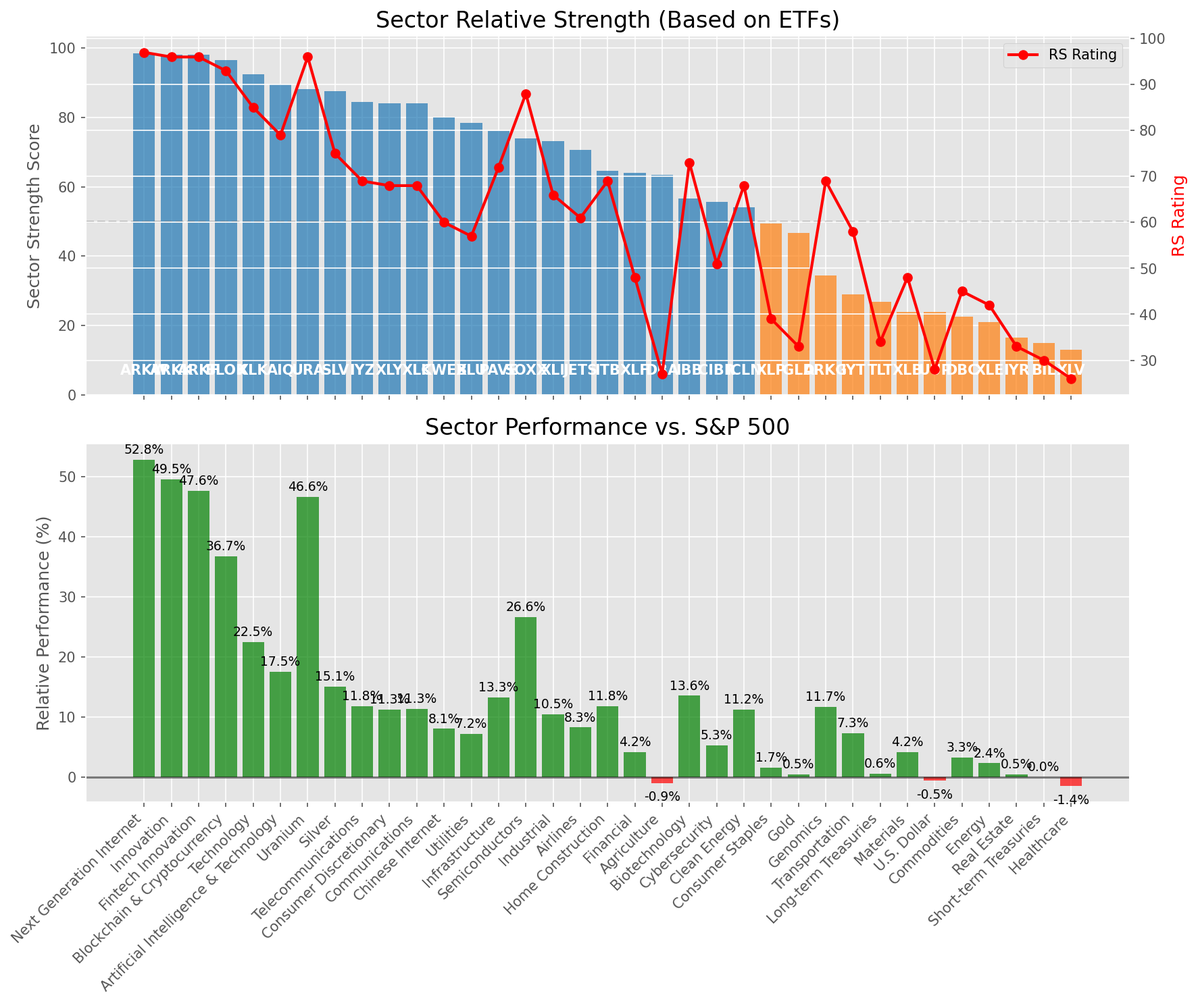
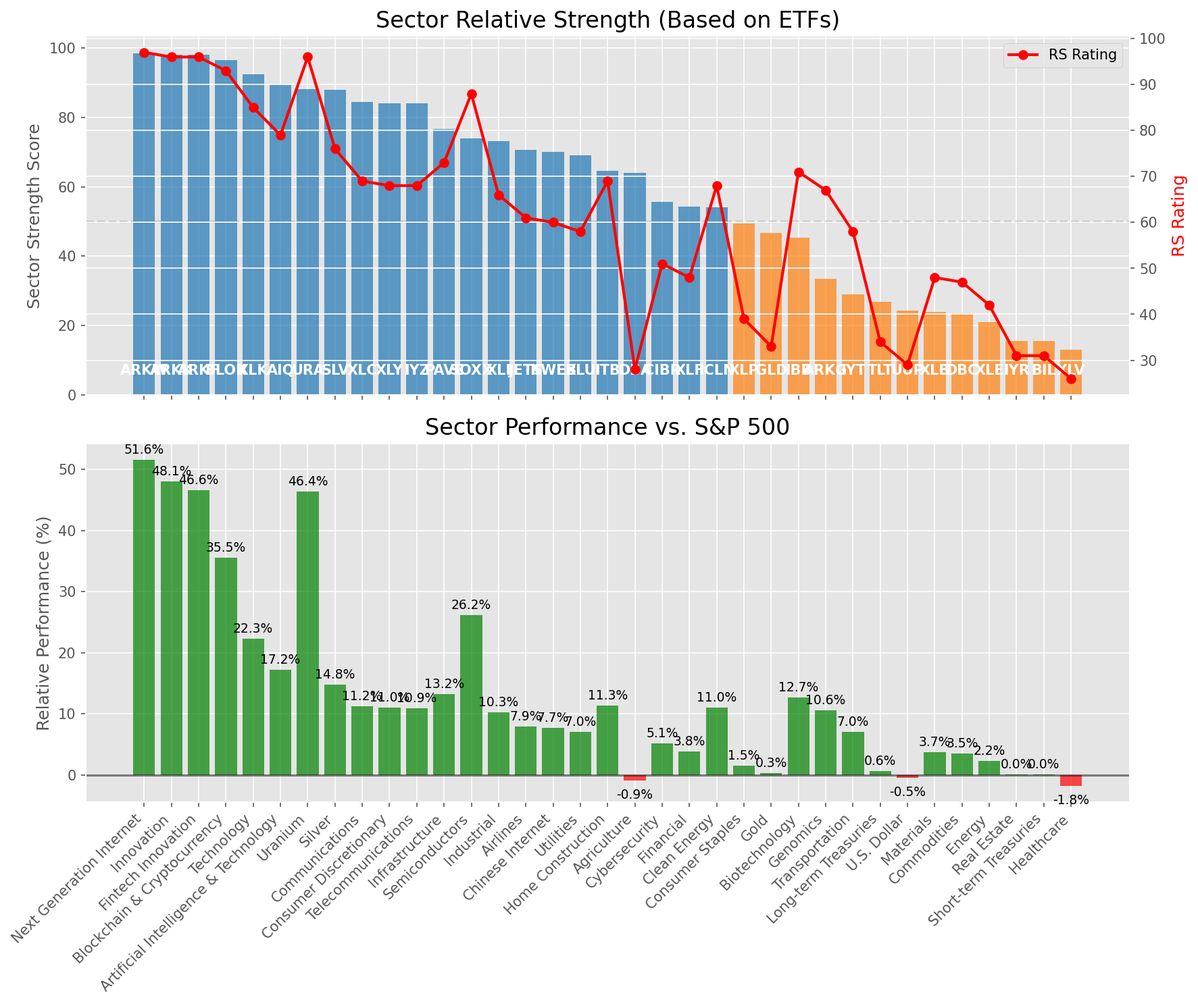
Add market report for 2025-08-11

diff --git a/oneil_relative_strength_report_2025-08-11.md b/oneil_relative_strength_report_2025-08-11.md
@@ -9,11 +9,11 @@
 | Metric | Value |
 |--------|-------|
 | **Market Valuation** | **Overvalued** |
-| **Current Ratio** | 10.34 |
+| **Current Ratio** | 10.32 |
 | **Historical Mean** | 9.68 |
 | **Standard Deviation** | 0.52 |
 | **Z-Score (StdDev from Mean)** | 1.24 |
-| **Total Market Cap** | $313.65 trillion |
+| **Total Market Cap** | $313.00 trillion |
 | **GDP** | $30.33 trillion |
 
 ## **Market Insights**
@@ -49,41 +49,41 @@ Based on William O'Neil's Relative Strength Methodology
 
 | ETF | Strength | RS Rating | Performance | Above Key MAs | Trend | Sector |
 |-----|----------|-----------|-------------|--------------|-------|--------|
-| [ARKW](https://www.tradingview.com/chart/?symbol=ARKW) | 98.5 | 97.0 | 52.79% | 10d ✓, 50d ✓, 200d ✓ | ↗ | Next Generation Internet |
-| [ARKK](https://www.tradingview.com/chart/?symbol=ARKK) | 98.0 | 96.0 | 49.52% | 10d ✓, 50d ✓, 200d ✓ | ↗ | Innovation |
-| [ARKF](https://www.tradingview.com/chart/?symbol=ARKF) | 98.0 | 96.0 | 47.60% | 10d ✓, 50d ✓, 200d ✓ | ↗ | Fintech Innovation |
-| [BLOK](https://www.tradingview.com/chart/?symbol=BLOK) | 96.5 | 93.0 | 36.69% | 10d ✓, 50d ✓, 200d ✓ | ↗ | Blockchain & Cryptocurrency |
-| [XLK](https://www.tradingview.com/chart/?symbol=XLK) | 92.5 | 85.0 | 22.53% | 10d ✓, 50d ✓, 200d ✓ | ↗ | Technology |
-| [AIQ](https://www.tradingview.com/chart/?symbol=AIQ) | 89.5 | 79.0 | 17.51% | 10d ✓, 50d ✓, 200d ✓ | ↗ | Artificial Intelligence & Technology |
-| [URA](https://www.tradingview.com/chart/?symbol=URA) | 88.1 | 96.0 | 46.63% | 10d ✗, 50d ✓, 200d ✓ | ↗ | Uranium |
-| [SLV](https://www.tradingview.com/chart/?symbol=SLV) | 87.5 | 75.0 | 15.10% | 10d ✓, 50d ✓, 200d ✓ | ↗ | Silver |
-| [IYZ](https://www.tradingview.com/chart/?symbol=IYZ) | 84.5 | 69.0 | 11.84% | 10d ✓, 50d ✓, 200d ✓ | ↗ | Telecommunications |
-| [XLY](https://www.tradingview.com/chart/?symbol=XLY) | 84.0 | 68.0 | 11.29% | 10d ✓, 50d ✓, 200d ✓ | ↗ | Consumer Discretionary |
-| [XLC](https://www.tradingview.com/chart/?symbol=XLC) | 84.0 | 68.0 | 11.34% | 10d ✓, 50d ✓, 200d ✓ | ↗ | Communications |
-| [KWEB](https://www.tradingview.com/chart/?symbol=KWEB) | 80.0 | 60.0 | 8.08% | 10d ✓, 50d ✓, 200d ✓ | ↗ | Chinese Internet |
-| [XLU](https://www.tradingview.com/chart/?symbol=XLU) | 78.5 | 57.0 | 7.20% | 10d ✓, 50d ✓, 200d ✓ | ↗ | Utilities |
-| [PAVE](https://www.tradingview.com/chart/?symbol=PAVE) | 76.1 | 72.0 | 13.27% | 10d ✗, 50d ✓, 200d ✓ | ↗ | Infrastructure |
-| [SOXX](https://www.tradingview.com/chart/?symbol=SOXX) | 74.0 | 88.0 | 26.63% | 10d ✓, 50d ✓, 200d ✓ | ↘ | Semiconductors |
-| [XLI](https://www.tradingview.com/chart/?symbol=XLI) | 73.1 | 66.0 | 10.51% | 10d ✗, 50d ✓, 200d ✓ | ↗ | Industrial |
-| [JETS](https://www.tradingview.com/chart/?symbol=JETS) | 70.6 | 61.0 | 8.29% | 10d ✗, 50d ✓, 200d ✓ | ↗ | Airlines |
-| [ITB](https://www.tradingview.com/chart/?symbol=ITB) | 64.5 | 69.0 | 11.84% | 10d ✓, 50d ✓, 200d ✓ | ↘ | Home Construction |
-| [XLF](https://www.tradingview.com/chart/?symbol=XLF) | 64.1 | 48.0 | 4.21% | 10d ✗, 50d ✓, 200d ✓ | ↗ | Financial |
-| [DBA](https://www.tradingview.com/chart/?symbol=DBA) | 63.5 | 27.0 | -0.93% | 10d ✓, 50d ✓, 200d ✓ | ↗ | Agriculture |
-| [IBB](https://www.tradingview.com/chart/?symbol=IBB) | 56.6 | 73.0 | 13.57% | 10d ✗, 50d ✓, 200d ✓ | ↘ | Biotechnology |
-| [CIBR](https://www.tradingview.com/chart/?symbol=CIBR) | 55.7 | 51.0 | 5.32% | 10d ✗, 50d ✗, 200d ✓ | ↗ | Cybersecurity |
-| [ICLN](https://www.tradingview.com/chart/?symbol=ICLN) | 54.1 | 68.0 | 11.25% | 10d ✗, 50d ✓, 200d ✓ | ↘ | Clean Energy |
-| [XLP](https://www.tradingview.com/chart/?symbol=XLP) | 49.5 | 39.0 | 1.66% | 10d ✓, 50d ✓, 200d ✓ | ↘ | Consumer Staples |
-| [GLD](https://www.tradingview.com/chart/?symbol=GLD) | 46.7 | 33.0 | 0.46% | 10d ✗, 50d ✗, 200d ✓ | ↗ | Gold |
-| [ARKG](https://www.tradingview.com/chart/?symbol=ARKG) | 34.5 | 69.0 | 11.74% | 10d ✗, 50d ✗, 200d ✗ | ↘ | Genomics |
-| [IYT](https://www.tradingview.com/chart/?symbol=IYT) | 29.0 | 58.0 | 7.34% | 10d ✗, 50d ✗, 200d ✗ | ↘ | Transportation |
-| [TLT](https://www.tradingview.com/chart/?symbol=TLT) | 26.9 | 34.0 | 0.59% | 10d ✗, 50d ✓, 200d ✗ | ↘ | Long-term Treasuries |
-| [XLB](https://www.tradingview.com/chart/?symbol=XLB) | 24.0 | 48.0 | 4.20% | 10d ✗, 50d ✗, 200d ✗ | ↘ | Materials |
-| [UUP](https://www.tradingview.com/chart/?symbol=UUP) | 23.9 | 28.0 | -0.51% | 10d ✗, 50d ✓, 200d ✗ | ↘ | U.S. Dollar |
-| [DBC](https://www.tradingview.com/chart/?symbol=DBC) | 22.5 | 45.0 | 3.34% | 10d ✗, 50d ✗, 200d ✗ | ↘ | Commodities |
-| [XLE](https://www.tradingview.com/chart/?symbol=XLE) | 21.0 | 42.0 | 2.35% | 10d ✗, 50d ✗, 200d ✗ | ↘ | Energy |
-| [IYR](https://www.tradingview.com/chart/?symbol=IYR) | 16.5 | 33.0 | 0.48% | 10d ✗, 50d ✗, 200d ✗ | ↘ | Real Estate |
-| [BIL](https://www.tradingview.com/chart/?symbol=BIL) | 15.0 | 30.0 | 0.03% | 10d ✗, 50d ✗, 200d ✗ | ↘ | Short-term Treasuries |
-| [XLV](https://www.tradingview.com/chart/?symbol=XLV) | 13.0 | 26.0 | -1.42% | 10d ✗, 50d ✗, 200d ✗ | ↘ | Healthcare |
+| [ARKW](https://www.tradingview.com/chart/?symbol=ARKW) | 98.5 | 97.0 | 51.59% | 10d ✓, 50d ✓, 200d ✓ | ↗ | Next Generation Internet |
+| [ARKK](https://www.tradingview.com/chart/?symbol=ARKK) | 98.0 | 96.0 | 48.06% | 10d ✓, 50d ✓, 200d ✓ | ↗ | Innovation |
+| [ARKF](https://www.tradingview.com/chart/?symbol=ARKF) | 98.0 | 96.0 | 46.58% | 10d ✓, 50d ✓, 200d ✓ | ↗ | Fintech Innovation |
+| [BLOK](https://www.tradingview.com/chart/?symbol=BLOK) | 96.5 | 93.0 | 35.54% | 10d ✓, 50d ✓, 200d ✓ | ↗ | Blockchain & Cryptocurrency |
+| [XLK](https://www.tradingview.com/chart/?symbol=XLK) | 92.5 | 85.0 | 22.27% | 10d ✓, 50d ✓, 200d ✓ | ↗ | Technology |
+| [AIQ](https://www.tradingview.com/chart/?symbol=AIQ) | 89.5 | 79.0 | 17.21% | 10d ✓, 50d ✓, 200d ✓ | ↗ | Artificial Intelligence & Technology |
+| [URA](https://www.tradingview.com/chart/?symbol=URA) | 88.1 | 96.0 | 46.43% | 10d ✗, 50d ✓, 200d ✓ | ↗ | Uranium |
+| [SLV](https://www.tradingview.com/chart/?symbol=SLV) | 88.0 | 76.0 | 14.82% | 10d ✓, 50d ✓, 200d ✓ | ↗ | Silver |
+| [XLC](https://www.tradingview.com/chart/?symbol=XLC) | 84.5 | 69.0 | 11.18% | 10d ✓, 50d ✓, 200d ✓ | ↗ | Communications |
+| [XLY](https://www.tradingview.com/chart/?symbol=XLY) | 84.0 | 68.0 | 10.96% | 10d ✓, 50d ✓, 200d ✓ | ↗ | Consumer Discretionary |
+| [IYZ](https://www.tradingview.com/chart/?symbol=IYZ) | 84.0 | 68.0 | 10.90% | 10d ✓, 50d ✓, 200d ✓ | ↗ | Telecommunications |
+| [PAVE](https://www.tradingview.com/chart/?symbol=PAVE) | 76.6 | 73.0 | 13.19% | 10d ✗, 50d ✓, 200d ✓ | ↗ | Infrastructure |
+| [SOXX](https://www.tradingview.com/chart/?symbol=SOXX) | 74.0 | 88.0 | 26.16% | 10d ✓, 50d ✓, 200d ✓ | ↘ | Semiconductors |
+| [XLI](https://www.tradingview.com/chart/?symbol=XLI) | 73.1 | 66.0 | 10.27% | 10d ✗, 50d ✓, 200d ✓ | ↗ | Industrial |
+| [JETS](https://www.tradingview.com/chart/?symbol=JETS) | 70.6 | 61.0 | 7.94% | 10d ✗, 50d ✓, 200d ✓ | ↗ | Airlines |
+| [KWEB](https://www.tradingview.com/chart/?symbol=KWEB) | 70.1 | 60.0 | 7.68% | 10d ✗, 50d ✓, 200d ✓ | ↗ | Chinese Internet |
+| [XLU](https://www.tradingview.com/chart/?symbol=XLU) | 69.1 | 58.0 | 7.02% | 10d ✗, 50d ✓, 200d ✓ | ↗ | Utilities |
+| [ITB](https://www.tradingview.com/chart/?symbol=ITB) | 64.5 | 69.0 | 11.32% | 10d ✓, 50d ✓, 200d ✓ | ↘ | Home Construction |
+| [DBA](https://www.tradingview.com/chart/?symbol=DBA) | 64.0 | 28.0 | -0.93% | 10d ✓, 50d ✓, 200d ✓ | ↗ | Agriculture |
+| [CIBR](https://www.tradingview.com/chart/?symbol=CIBR) | 55.7 | 51.0 | 5.11% | 10d ✗, 50d ✗, 200d ✓ | ↗ | Cybersecurity |
+| [XLF](https://www.tradingview.com/chart/?symbol=XLF) | 54.2 | 48.0 | 3.84% | 10d ✗, 50d ✗, 200d ✓ | ↗ | Financial |
+| [ICLN](https://www.tradingview.com/chart/?symbol=ICLN) | 54.1 | 68.0 | 10.96% | 10d ✗, 50d ✓, 200d ✓ | ↘ | Clean Energy |
+| [XLP](https://www.tradingview.com/chart/?symbol=XLP) | 49.5 | 39.0 | 1.46% | 10d ✓, 50d ✓, 200d ✓ | ↘ | Consumer Staples |
+| [GLD](https://www.tradingview.com/chart/?symbol=GLD) | 46.7 | 33.0 | 0.33% | 10d ✗, 50d ✗, 200d ✓ | ↗ | Gold |
+| [IBB](https://www.tradingview.com/chart/?symbol=IBB) | 45.4 | 71.0 | 12.69% | 10d ✗, 50d ✓, 200d ✗ | ↘ | Biotechnology |
+| [ARKG](https://www.tradingview.com/chart/?symbol=ARKG) | 33.5 | 67.0 | 10.60% | 10d ✗, 50d ✗, 200d ✗ | ↘ | Genomics |
+| [IYT](https://www.tradingview.com/chart/?symbol=IYT) | 29.0 | 58.0 | 7.00% | 10d ✗, 50d ✗, 200d ✗ | ↘ | Transportation |
+| [TLT](https://www.tradingview.com/chart/?symbol=TLT) | 26.9 | 34.0 | 0.58% | 10d ✗, 50d ✓, 200d ✗ | ↘ | Long-term Treasuries |
+| [UUP](https://www.tradingview.com/chart/?symbol=UUP) | 24.4 | 29.0 | -0.49% | 10d ✗, 50d ✓, 200d ✗ | ↘ | U.S. Dollar |
+| [XLB](https://www.tradingview.com/chart/?symbol=XLB) | 24.0 | 48.0 | 3.69% | 10d ✗, 50d ✗, 200d ✗ | ↘ | Materials |
+| [DBC](https://www.tradingview.com/chart/?symbol=DBC) | 23.5 | 47.0 | 3.50% | 10d ✗, 50d ✗, 200d ✗ | ↘ | Commodities |
+| [XLE](https://www.tradingview.com/chart/?symbol=XLE) | 21.0 | 42.0 | 2.24% | 10d ✗, 50d ✗, 200d ✗ | ↘ | Energy |
+| [IYR](https://www.tradingview.com/chart/?symbol=IYR) | 15.5 | 31.0 | 0.02% | 10d ✗, 50d ✗, 200d ✗ | ↘ | Real Estate |
+| [BIL](https://www.tradingview.com/chart/?symbol=BIL) | 15.5 | 31.0 | 0.03% | 10d ✗, 50d ✗, 200d ✗ | ↘ | Short-term Treasuries |
+| [XLV](https://www.tradingview.com/chart/?symbol=XLV) | 13.0 | 26.0 | -1.82% | 10d ✗, 50d ✗, 200d ✗ | ↘ | Healthcare |
 
 ### **Sector ETF Performance Interpretation**
 
@@ -100,150 +100,159 @@ This table shows the relative strength metrics for different market sectors base
 
 The current market leadership is coming from the following sectors: **Next Generation Internet, Innovation, Fintech Innovation**.
 
-The **Next Generation Internet** sector (represented by **ARKW**) is showing particularly strong relative strength with an RS rating of 97.0 and performance of 52.79% vs. the S&P 500. This sector is trading above its 10-day, 50-day, 200-day moving average(s). Investors should consider focusing on high RS stocks within these leading sectors for potential outperformance.
+The **Next Generation Internet** sector (represented by **ARKW**) is showing particularly strong relative strength with an RS rating of 97.0 and performance of 51.59% vs. the S&P 500. This sector is trading above its 10-day, 50-day, 200-day moving average(s). Investors should consider focusing on high RS stocks within these leading sectors for potential outperformance.
 
 ---
 
 ## **Buy Recommendations**
 
-The following 57 stocks show exceptional relative strength:
+The following 58 stocks show exceptional relative strength:
 
 | RS Rating | Buy Score | Current Price | Chart | Name | Ticker |
 |-----------|-----------|---------------|-------|------|--------|
-| 100 | 100 | $65.30 | [Chart](https://www.tradingview.com/chart/?symbol=KTOS) | Kratos Defense & Security Solutions, Inc. | KTOS |
-| 100 | 100 | $116.94 | [Chart](https://www.tradingview.com/chart/?symbol=HOOD) | Robinhood Markets, Inc. Class A Common Stock | HOOD |
-| 100 | 100 | $74.00 | [Chart](https://www.tradingview.com/chart/?symbol=MP) | MP Materials Corp. | MP |
-| 100 | 100 | $206.82 | [Chart](https://www.tradingview.com/chart/?symbol=CLS) | Celestica, Inc. | CLS |
-| 100 | 100 | $120.30 | [Chart](https://www.tradingview.com/chart/?symbol=CRDO) | Credo Technology Group Holding Ltd Ordinary Shares | CRDO |
-| 99 | 100 | $131.64 | [Chart](https://www.tradingview.com/chart/?symbol=RBLX) | Roblox Corporation | RBLX |
-| 98 | 100 | $105.38 | [Chart](https://www.tradingview.com/chart/?symbol=VRNA) | Verona Pharma plc | VRNA |
-| 98 | 100 | $93.53 | [Chart](https://www.tradingview.com/chart/?symbol=RYTM) | Rhythm Pharmaceuticals, Inc. Common Stock | RYTM |
-| 97 | 100 | $158.77 | [Chart](https://www.tradingview.com/chart/?symbol=FUTU) | Futu Holdings Limited American Depositary Shares | FUTU |
-| 97 | 100 | $180.75 | [Chart](https://www.tradingview.com/chart/?symbol=COOP) | Mr. Cooper Group Inc. Common Stock | COOP |
-| 97 | 100 | $185.31 | [Chart](https://www.tradingview.com/chart/?symbol=PLTR) | Palantir Technologies Inc. Class A Common Stock | PLTR |
-| 97 | 100 | $162.98 | [Chart](https://www.tradingview.com/chart/?symbol=ARKW) | ARK Next Generation Internet ETF | ARKW |
-| 96 | 100 | $119.63 | [Chart](https://www.tradingview.com/chart/?symbol=SANM) | Sanmina  Corp | SANM |
-| 96 | 100 | $55.24 | [Chart](https://www.tradingview.com/chart/?symbol=ARKF) | ARK Fintech Innovation ETF | ARKF |
-| 95 | 100 | $465.77 | [Chart](https://www.tradingview.com/chart/?symbol=APP) | Applovin Corporation Class A Common Stock | APP |
-| 95 | 100 | $259.43 | [Chart](https://www.tradingview.com/chart/?symbol=DASH) | DoorDash, Inc. Class A Common Stock | DASH |
-| 95 | 100 | $66.35 | [Chart](https://www.tradingview.com/chart/?symbol=IBKR) | Interactive Brokers Group, Inc. Class A Common Stock | IBKR |
-| 95 | 100 | $47.93 | [Chart](https://www.tradingview.com/chart/?symbol=BBIO) | BridgeBio Pharma, Inc. Common Stock | BBIO |
-| 94 | 100 | $58.11 | [Chart](https://www.tradingview.com/chart/?symbol=BTI) | British American Tobacco p.l.c. American Depositary Shares, American Depositary Shares, each representing one Ordinary Share | BTI |
-| 94 | 100 | $50.19 | [Chart](https://www.tradingview.com/chart/?symbol=REVG) | REV Group, Inc. | REVG |
-| 93 | 100 | $110.51 | [Chart](https://www.tradingview.com/chart/?symbol=APH) | Amphenol Corporation | APH |
-| 93 | 100 | $94.61 | [Chart](https://www.tradingview.com/chart/?symbol=EBAY) | eBay Inc | EBAY |
-| 93 | 100 | $23.08 | [Chart](https://www.tradingview.com/chart/?symbol=MAG) | MAG Silver Corp. | MAG |
-| 93 | 100 | $20.69 | [Chart](https://www.tradingview.com/chart/?symbol=LQDA) | Liquidia Corporation Common Stock | LQDA |
-| 92 | 100 | $57.34 | [Chart](https://www.tradingview.com/chart/?symbol=CALX) | CALIX, INC. | CALX |
-| 91 | 100 | $36.15 | [Chart](https://www.tradingview.com/chart/?symbol=DB) | Deutsche Bank Aktiengesellschaft | DB |
-| 91 | 100 | $97.25 | [Chart](https://www.tradingview.com/chart/?symbol=TPB) | Turning Point Brands, Inc. | TPB |
-| 90 | 100 | $195.23 | [Chart](https://www.tradingview.com/chart/?symbol=ASND) | Ascendis Pharma A/S American Depositary Shares | ASND |
-| 90 | 100 | $43.67 | [Chart](https://www.tradingview.com/chart/?symbol=LTM) | LATAM Airlines Group S.A. American Depositary Shares (each representing two thousand (2,000) shares of Common Stock) | LTM |
+| 100 | 100 | $206.65 | [Chart](https://www.tradingview.com/chart/?symbol=CLS) | Celestica, Inc. | CLS |
+| 100 | 100 | $120.42 | [Chart](https://www.tradingview.com/chart/?symbol=CRDO) | Credo Technology Group Holding Ltd Ordinary Shares | CRDO |
+| 100 | 100 | $74.11 | [Chart](https://www.tradingview.com/chart/?symbol=MP) | MP Materials Corp. | MP |
+| 100 | 100 | $116.84 | [Chart](https://www.tradingview.com/chart/?symbol=HOOD) | Robinhood Markets, Inc. Class A Common Stock | HOOD |
+| 100 | 100 | $65.57 | [Chart](https://www.tradingview.com/chart/?symbol=KTOS) | Kratos Defense & Security Solutions, Inc. | KTOS |
+| 99 | 100 | $105.33 | [Chart](https://www.tradingview.com/chart/?symbol=VRNA) | Verona Pharma plc | VRNA |
+| 99 | 100 | $131.90 | [Chart](https://www.tradingview.com/chart/?symbol=RBLX) | Roblox Corporation | RBLX |
+| 98 | 100 | $92.70 | [Chart](https://www.tradingview.com/chart/?symbol=RYTM) | Rhythm Pharmaceuticals, Inc. Common Stock | RYTM |
+| 97 | 100 | $185.02 | [Chart](https://www.tradingview.com/chart/?symbol=PLTR) | Palantir Technologies Inc. Class A Common Stock | PLTR |
+| 97 | 100 | $119.94 | [Chart](https://www.tradingview.com/chart/?symbol=SANM) | Sanmina  Corp | SANM |
+| 97 | 100 | $158.93 | [Chart](https://www.tradingview.com/chart/?symbol=FUTU) | Futu Holdings Limited American Depositary Shares | FUTU |
+| 97 | 100 | $180.12 | [Chart](https://www.tradingview.com/chart/?symbol=COOP) | Mr. Cooper Group Inc. Common Stock | COOP |
+| 97 | 100 | $161.70 | [Chart](https://www.tradingview.com/chart/?symbol=ARKW) | ARK Next Generation Internet ETF | ARKW |
+| 96 | 100 | $54.87 | [Chart](https://www.tradingview.com/chart/?symbol=ARKF) | ARK Fintech Innovation ETF | ARKF |
+| 95 | 100 | $470.24 | [Chart](https://www.tradingview.com/chart/?symbol=APP) | Applovin Corporation Class A Common Stock | APP |
+| 95 | 100 | $58.27 | [Chart](https://www.tradingview.com/chart/?symbol=BTI) | British American Tobacco p.l.c. American Depositary Shares, American Depositary Shares, each representing one Ordinary Share | BTI |
+| 95 | 100 | $259.27 | [Chart](https://www.tradingview.com/chart/?symbol=DASH) | DoorDash, Inc. Class A Common Stock | DASH |
+| 95 | 100 | $66.13 | [Chart](https://www.tradingview.com/chart/?symbol=IBKR) | Interactive Brokers Group, Inc. Class A Common Stock | IBKR |
+| 94 | 100 | $50.17 | [Chart](https://www.tradingview.com/chart/?symbol=REVG) | REV Group, Inc. | REVG |
+| 94 | 100 | $47.34 | [Chart](https://www.tradingview.com/chart/?symbol=BBIO) | BridgeBio Pharma, Inc. Common Stock | BBIO |
+| 93 | 100 | $110.80 | [Chart](https://www.tradingview.com/chart/?symbol=APH) | Amphenol Corporation | APH |
+| 93 | 100 | $22.98 | [Chart](https://www.tradingview.com/chart/?symbol=MAG) | MAG Silver Corp. | MAG |
+| 93 | 100 | $94.66 | [Chart](https://www.tradingview.com/chart/?symbol=EBAY) | eBay Inc | EBAY |
+| 92 | 100 | $20.39 | [Chart](https://www.tradingview.com/chart/?symbol=LQDA) | Liquidia Corporation Common Stock | LQDA |
+| 91 | 100 | $56.88 | [Chart](https://www.tradingview.com/chart/?symbol=CALX) | CALIX, INC. | CALX |
+| 91 | 100 | $36.14 | [Chart](https://www.tradingview.com/chart/?symbol=DB) | Deutsche Bank Aktiengesellschaft | DB |
+| 90 | 100 | $53.77 | [Chart](https://www.tradingview.com/chart/?symbol=GH) | Guardant Health, Inc. Common Stock | GH |
+| 90 | 100 | $43.44 | [Chart](https://www.tradingview.com/chart/?symbol=LTM) | LATAM Airlines Group S.A. American Depositary Shares (each representing two thousand (2,000) shares of Common Stock) | LTM |
+| 90 | 100 | $96.23 | [Chart](https://www.tradingview.com/chart/?symbol=TPB) | Turning Point Brands, Inc. | TPB |
+| 89 | 100 | $56.75 | [Chart](https://www.tradingview.com/chart/?symbol=AU) | AngloGold Ashanti plc | AU |
+| 89 | 100 | $275.20 | [Chart](https://www.tradingview.com/chart/?symbol=GE) | GE Aerospace | GE |
 | 89 | 100 | $28.12 | [Chart](https://www.tradingview.com/chart/?symbol=KAR) | OPENLANE, Inc | KAR |
-| 89 | 100 | $275.69 | [Chart](https://www.tradingview.com/chart/?symbol=GE) | GE Aerospace | GE |
-| 89 | 100 | $53.48 | [Chart](https://www.tradingview.com/chart/?symbol=GH) | Guardant Health, Inc. Common Stock | GH |
-| 89 | 100 | $56.91 | [Chart](https://www.tradingview.com/chart/?symbol=AU) | AngloGold Ashanti plc | AU |
-| 88 | 100 | $30.75 | [Chart](https://www.tradingview.com/chart/?symbol=OR) | OR Royalties Inc. | OR |
+| 88 | 100 | $30.65 | [Chart](https://www.tradingview.com/chart/?symbol=OR) | OR Royalties Inc. | OR |
 | 87 | 100 | $264.21 | [Chart](https://www.tradingview.com/chart/?symbol=IDCC) | InterDigital, Inc. | IDCC |
-| 89 | 99 | $54.21 | [Chart](https://www.tradingview.com/chart/?symbol=SIL) | Global X Silver Miners ETF (NEW) | SIL |
-| 86 | 99 | $119.24 | [Chart](https://www.tradingview.com/chart/?symbol=GILD) | Gilead Sciences Inc | GILD |
-| 84 | 98 | $20.07 | [Chart](https://www.tradingview.com/chart/?symbol=BCS) | Barclays PLC | BCS |
-| 87 | 97 | $65.89 | [Chart](https://www.tradingview.com/chart/?symbol=MAIN) | Main Street Capital Corporation | MAIN |
-| 85 | 97 | $836.13 | [Chart](https://www.tradingview.com/chart/?symbol=AXON) | Axon Enterprise, Inc. Common Stock | AXON |
-| 84 | 97 | $58.48 | [Chart](https://www.tradingview.com/chart/?symbol=ERJ) | Embraer S.A. | ERJ |
-| 86 | 96 | $97.55 | [Chart](https://www.tradingview.com/chart/?symbol=NDAQ) | Nasdaq, Inc. Common Stock | NDAQ |
+| 89 | 99 | $53.89 | [Chart](https://www.tradingview.com/chart/?symbol=SIL) | Global X Silver Miners ETF (NEW) | SIL |
+| 89 | 99 | $193.58 | [Chart](https://www.tradingview.com/chart/?symbol=ASND) | Ascendis Pharma A/S American Depositary Shares | ASND |
+| 88 | 98 | $90.07 | [Chart](https://www.tradingview.com/chart/?symbol=GDXU) | MicroSectors Gold Miners 3x Leveraged ETN | GDXU |
+| 85 | 98 | $118.57 | [Chart](https://www.tradingview.com/chart/?symbol=GILD) | Gilead Sciences Inc | GILD |
+| 84 | 98 | $20.00 | [Chart](https://www.tradingview.com/chart/?symbol=BCS) | Barclays PLC | BCS |
+| 86 | 97 | $34.95 | [Chart](https://www.tradingview.com/chart/?symbol=ATAT) | Atour Lifestyle Holdings Limited American Depositary Shares | ATAT |
+| 85 | 97 | $831.60 | [Chart](https://www.tradingview.com/chart/?symbol=AXON) | Axon Enterprise, Inc. Common Stock | AXON |
 | 86 | 96 | $262.24 | [Chart](https://www.tradingview.com/chart/?symbol=WTS) | Watts Water Technologies, Inc. Class A | WTS |
-| 85 | 96 | $249.20 | [Chart](https://www.tradingview.com/chart/?symbol=BAP) | Credicorp LTD | BAP |
-| 85 | 96 | $26.97 | [Chart](https://www.tradingview.com/chart/?symbol=TFPM) | Triple Flag Precious Metals Corp. | TFPM |
-| 85 | 96 | $34.86 | [Chart](https://www.tradingview.com/chart/?symbol=ATAT) | Atour Lifestyle Holdings Limited American Depositary Shares | ATAT |
-| 85 | 95 | $18.36 | [Chart](https://www.tradingview.com/chart/?symbol=BVN) | Compania de Minas Buenaventura S.A. | BVN |
-| 85 | 95 | $31.44 | [Chart](https://www.tradingview.com/chart/?symbol=IIIV) | i3 Verticals, Inc. Class A Common Stock | IIIV |
-| 84 | 95 | $116.42 | [Chart](https://www.tradingview.com/chart/?symbol=SXT) | Sensient Technology Corporation | SXT |
-| 83 | 95 | $103.58 | [Chart](https://www.tradingview.com/chart/?symbol=BK) | Bank of New York Mellon Corporation | BK |
-| 83 | 95 | $153.50 | [Chart](https://www.tradingview.com/chart/?symbol=VSEC) | VSE Corp | VSEC |
-| 84 | 94 | $47.69 | [Chart](https://www.tradingview.com/chart/?symbol=FAST) | Fastenal Co | FAST |
-| 83 | 93 | $51.55 | [Chart](https://www.tradingview.com/chart/?symbol=FHI) | Federated Hermes, Inc. | FHI |
-| 82 | 93 | $117.62 | [Chart](https://www.tradingview.com/chart/?symbol=SPMO) | Invesco S&P 500 Momentum ETF | SPMO |
-| 81 | 93 | $71.17 | [Chart](https://www.tradingview.com/chart/?symbol=CSCO) | Cisco Systems, Inc. Common Stock (DE) | CSCO |
-| 81 | 93 | $321.24 | [Chart](https://www.tradingview.com/chart/?symbol=FFIV) | F5, Inc. Common Stock | FFIV |
-| 80 | 91 | $24.16 | [Chart](https://www.tradingview.com/chart/?symbol=ING) | ING Groep N.V. American Depositary Shares | ING |
+| 86 | 96 | $97.24 | [Chart](https://www.tradingview.com/chart/?symbol=NDAQ) | Nasdaq, Inc. Common Stock | NDAQ |
+| 86 | 96 | $31.48 | [Chart](https://www.tradingview.com/chart/?symbol=IIIV) | i3 Verticals, Inc. Class A Common Stock | IIIV |
+| 86 | 96 | $65.59 | [Chart](https://www.tradingview.com/chart/?symbol=MAIN) | Main Street Capital Corporation | MAIN |
+| 85 | 96 | $26.89 | [Chart](https://www.tradingview.com/chart/?symbol=TFPM) | Triple Flag Precious Metals Corp. | TFPM |
+| 84 | 96 | $153.50 | [Chart](https://www.tradingview.com/chart/?symbol=VSEC) | VSE Corp | VSEC |
+| 83 | 96 | $57.90 | [Chart](https://www.tradingview.com/chart/?symbol=ERJ) | Embraer S.A. | ERJ |
+| 85 | 95 | $18.27 | [Chart](https://www.tradingview.com/chart/?symbol=BVN) | Compania de Minas Buenaventura S.A. | BVN |
+| 84 | 95 | $249.19 | [Chart](https://www.tradingview.com/chart/?symbol=BAP) | Credicorp LTD | BAP |
+| 84 | 95 | $115.68 | [Chart](https://www.tradingview.com/chart/?symbol=SXT) | Sensient Technology Corporation | SXT |
+| 83 | 95 | $103.28 | [Chart](https://www.tradingview.com/chart/?symbol=BK) | Bank of New York Mellon Corporation | BK |
+| 84 | 94 | $47.56 | [Chart](https://www.tradingview.com/chart/?symbol=FAST) | Fastenal Co | FAST |
+| 82 | 94 | $71.06 | [Chart](https://www.tradingview.com/chart/?symbol=CSCO) | Cisco Systems, Inc. Common Stock (DE) | CSCO |
+| 82 | 94 | $321.00 | [Chart](https://www.tradingview.com/chart/?symbol=FFIV) | F5, Inc. Common Stock | FFIV |
+| 83 | 93 | $51.47 | [Chart](https://www.tradingview.com/chart/?symbol=FHI) | Federated Hermes, Inc. | FHI |
+| 82 | 93 | $117.42 | [Chart](https://www.tradingview.com/chart/?symbol=SPMO) | Invesco S&P 500 Momentum ETF | SPMO |
+| 80 | 91 | $24.09 | [Chart](https://www.tradingview.com/chart/?symbol=ING) | ING Groep N.V. American Depositary Shares | ING |
 
 ---
 
 
 ## **Sell Recommendations**
 
-The following 67 stocks show deteriorating relative strength:
+The following 75 stocks show deteriorating relative strength:
 
 | RS Rating | Sell Score | Current Price | Chart | Name | Ticker |
 |-----------|------------|---------------|-------|------|--------|
-| 1 | 100 | $11.46 | [Chart](https://www.tradingview.com/chart/?symbol=NVDS) | Investment Managers Series Trust II Tradr 1.5X Short NVDA Daily ETF | NVDS |
-| 1 | 100 | $23.03 | [Chart](https://www.tradingview.com/chart/?symbol=TECS) | Direxion Daily Technology Bear 3x Shares | TECS |
-| 2 | 100 | $13.52 | [Chart](https://www.tradingview.com/chart/?symbol=CLBT) | Cellebrite DI Ltd. Class A Ordinary Shares | CLBT |
-| 3 | 100 | $24.43 | [Chart](https://www.tradingview.com/chart/?symbol=CRI) | Carter's Inc. | CRI |
-| 3 | 100 | $23.38 | [Chart](https://www.tradingview.com/chart/?symbol=ZSL) | ProShares UltraShort Silver | ZSL |
-| 6 | 100 | $41.62 | [Chart](https://www.tradingview.com/chart/?symbol=SDOW) | ProShares UltraPro Short Dow 30 | SDOW |
-| 6 | 100 | $11.87 | [Chart](https://www.tradingview.com/chart/?symbol=ARDT) | Ardent Health, Inc. | ARDT |
-| 7 | 100 | $214.88 | [Chart](https://www.tradingview.com/chart/?symbol=WDAY) | Workday, Inc. Class A Common Stock | WDAY |
-| 7 | 100 | $23.88 | [Chart](https://www.tradingview.com/chart/?symbol=CRTO) | Criteo S.A. | CRTO |
-| 8 | 100 | $16.14 | [Chart](https://www.tradingview.com/chart/?symbol=S) | SentinelOne, Inc. | S |
-| 8 | 100 | $17.26 | [Chart](https://www.tradingview.com/chart/?symbol=AVBP) | ArriVent BioPharma, Inc. Common Stock | AVBP |
-| 10 | 100 | $24.35 | [Chart](https://www.tradingview.com/chart/?symbol=DXD) | ProShares UltraShort Dow 30 | DXD |
-| 11 | 100 | $38.72 | [Chart](https://www.tradingview.com/chart/?symbol=SH) | ProShares Short S&P500 | SH |
-| 11 | 100 | $39.76 | [Chart](https://www.tradingview.com/chart/?symbol=BILL) | BILL Holdings, Inc. | BILL |
-| 15 | 100 | $31.20 | [Chart](https://www.tradingview.com/chart/?symbol=JD) | JD.com, Inc. | JD |
-| 15 | 100 | $16.39 | [Chart](https://www.tradingview.com/chart/?symbol=CTO) | CTO Realty Growth, Inc. | CTO |
-| 10 | 98 | $19.81 | [Chart](https://www.tradingview.com/chart/?symbol=GAP) | The Gap, Inc. | GAP |
-| 11 | 98 | $30.19 | [Chart](https://www.tradingview.com/chart/?symbol=WGO) | Winnebago Industries, Inc. | WGO |
-| 17 | 98 | $26.00 | [Chart](https://www.tradingview.com/chart/?symbol=TBBB) | BBB Foods Inc. | TBBB |
-| 9 | 97 | $36.20 | [Chart](https://www.tradingview.com/chart/?symbol=LZB) | La-Z-Boy Incorporated | LZB |
-| 10 | 97 | $12.81 | [Chart](https://www.tradingview.com/chart/?symbol=EWTX) | Edgewise Therapeutics, Inc. Common Stock | EWTX |
-| 6 | 96 | $10.37 | [Chart](https://www.tradingview.com/chart/?symbol=DVAX) | Dynavax Technologies Corporation | DVAX |
-| 11 | 96 | $13.89 | [Chart](https://www.tradingview.com/chart/?symbol=VRE) | Veris Residential, Inc. | VRE |
-| 11 | 96 | $34.40 | [Chart](https://www.tradingview.com/chart/?symbol=AMH) | AMERICAN HOMES 4 RENT | AMH |
-| 16 | 96 | $25.63 | [Chart](https://www.tradingview.com/chart/?symbol=FCPT) | Four Corners Property Trust, Inc. | FCPT |
-| 6 | 95 | $28.88 | [Chart](https://www.tradingview.com/chart/?symbol=SMPL) | The Simply Good Foods Company Common Stock | SMPL |
-| 8 | 95 | $139.48 | [Chart](https://www.tradingview.com/chart/?symbol=MAA) | Mid-America Apartment Communities, Inc. | MAA |
-| 13 | 94 | $28.15 | [Chart](https://www.tradingview.com/chart/?symbol=BBWI) | Bath & Body Works, Inc. | BBWI |
-| 18 | 94 | $22.02 | [Chart](https://www.tradingview.com/chart/?symbol=CURB) | Curbline Properties Corp. | CURB |
-| 20 | 94 | $16.52 | [Chart](https://www.tradingview.com/chart/?symbol=UMH) | UMH Properties, Inc. | UMH |
-| 9 | 92 | $14.49 | [Chart](https://www.tradingview.com/chart/?symbol=PRO) | Pros Holdings, Inc. | PRO |
-| 11 | 92 | $14.71 | [Chart](https://www.tradingview.com/chart/?symbol=PLSE) | Pulse Biosciences, Inc Common Stock (DE) | PLSE |
+| 1 | 100 | $23.19 | [Chart](https://www.tradingview.com/chart/?symbol=TECS) | Direxion Daily Technology Bear 3x Shares | TECS |
+| 1 | 100 | $11.49 | [Chart](https://www.tradingview.com/chart/?symbol=NVDS) | Investment Managers Series Trust II Tradr 1.5X Short NVDA Daily ETF | NVDS |
+| 2 | 100 | $13.56 | [Chart](https://www.tradingview.com/chart/?symbol=CLBT) | Cellebrite DI Ltd. Class A Ordinary Shares | CLBT |
+| 3 | 100 | $23.50 | [Chart](https://www.tradingview.com/chart/?symbol=ZSL) | ProShares UltraShort Silver | ZSL |
+| 3 | 100 | $24.32 | [Chart](https://www.tradingview.com/chart/?symbol=CRI) | Carter's Inc. | CRI |
+| 4 | 100 | $39.97 | [Chart](https://www.tradingview.com/chart/?symbol=OXM) | Oxford Industries, Inc. | OXM |
+| 6 | 100 | $11.85 | [Chart](https://www.tradingview.com/chart/?symbol=ARDT) | Ardent Health, Inc. | ARDT |
+| 7 | 100 | $212.21 | [Chart](https://www.tradingview.com/chart/?symbol=WDAY) | Workday, Inc. Class A Common Stock | WDAY |
+| 7 | 100 | $42.12 | [Chart](https://www.tradingview.com/chart/?symbol=SDOW) | ProShares UltraPro Short Dow 30 | SDOW |
+| 8 | 100 | $16.07 | [Chart](https://www.tradingview.com/chart/?symbol=S) | SentinelOne, Inc. | S |
+| 8 | 100 | $23.87 | [Chart](https://www.tradingview.com/chart/?symbol=CRTO) | Criteo S.A. | CRTO |
+| 8 | 100 | $17.00 | [Chart](https://www.tradingview.com/chart/?symbol=AVBP) | ArriVent BioPharma, Inc. Common Stock | AVBP |
+| 11 | 100 | $24.55 | [Chart](https://www.tradingview.com/chart/?symbol=DXD) | ProShares UltraShort Dow 30 | DXD |
+| 15 | 100 | $16.34 | [Chart](https://www.tradingview.com/chart/?symbol=CTO) | CTO Realty Growth, Inc. | CTO |
+| 15 | 100 | $31.11 | [Chart](https://www.tradingview.com/chart/?symbol=JD) | JD.com, Inc. | JD |
+| 12 | 99 | $38.80 | [Chart](https://www.tradingview.com/chart/?symbol=SH) | ProShares Short S&P500 | SH |
+| 12 | 99 | $39.77 | [Chart](https://www.tradingview.com/chart/?symbol=BILL) | BILL Holdings, Inc. | BILL |
+| 10 | 98 | $19.80 | [Chart](https://www.tradingview.com/chart/?symbol=GAP) | The Gap, Inc. | GAP |
+| 11 | 98 | $30.02 | [Chart](https://www.tradingview.com/chart/?symbol=WGO) | Winnebago Industries, Inc. | WGO |
+| 9 | 97 | $12.55 | [Chart](https://www.tradingview.com/chart/?symbol=EWTX) | Edgewise Therapeutics, Inc. Common Stock | EWTX |
+| 9 | 97 | $36.17 | [Chart](https://www.tradingview.com/chart/?symbol=LZB) | La-Z-Boy Incorporated | LZB |
+| 15 | 97 | $25.46 | [Chart](https://www.tradingview.com/chart/?symbol=FCPT) | Four Corners Property Trust, Inc. | FCPT |
+| 17 | 97 | $26.03 | [Chart](https://www.tradingview.com/chart/?symbol=TBBB) | BBB Foods Inc. | TBBB |
+| 6 | 96 | $10.38 | [Chart](https://www.tradingview.com/chart/?symbol=DVAX) | Dynavax Technologies Corporation | DVAX |
+| 11 | 96 | $34.28 | [Chart](https://www.tradingview.com/chart/?symbol=AMH) | AMERICAN HOMES 4 RENT | AMH |
+| 6 | 95 | $28.89 | [Chart](https://www.tradingview.com/chart/?symbol=SMPL) | The Simply Good Foods Company Common Stock | SMPL |
+| 12 | 95 | $13.89 | [Chart](https://www.tradingview.com/chart/?symbol=VRE) | Veris Residential, Inc. | VRE |
+| 19 | 95 | $16.36 | [Chart](https://www.tradingview.com/chart/?symbol=UMH) | UMH Properties, Inc. | UMH |
+| 9 | 94 | $139.19 | [Chart](https://www.tradingview.com/chart/?symbol=MAA) | Mid-America Apartment Communities, Inc. | MAA |
+| 13 | 94 | $28.05 | [Chart](https://www.tradingview.com/chart/?symbol=BBWI) | Bath & Body Works, Inc. | BBWI |
+| 7 | 93 | $21.48 | [Chart](https://www.tradingview.com/chart/?symbol=CLW) | Clearwater Paper Corporation | CLW |
+| 8 | 93 | $14.41 | [Chart](https://www.tradingview.com/chart/?symbol=PRO) | Pros Holdings, Inc. | PRO |
+| 19 | 93 | $22.03 | [Chart](https://www.tradingview.com/chart/?symbol=CURB) | Curbline Properties Corp. | CURB |
+| 12 | 91 | $14.71 | [Chart](https://www.tradingview.com/chart/?symbol=PLSE) | Pulse Biosciences, Inc Common Stock (DE) | PLSE |
 | 16 | 90 | $12.72 | [Chart](https://www.tradingview.com/chart/?symbol=CCRN) | Cross Country Healthcare Inc | CCRN |
-| 18 | 90 | $36.73 | [Chart](https://www.tradingview.com/chart/?symbol=VNO) | Vornado Realty Trust | VNO |
-| 17 | 89 | $13.13 | [Chart](https://www.tradingview.com/chart/?symbol=GOOD) | Gladstone Commercial Corporation - REIT | GOOD |
-| 18 | 88 | $12.10 | [Chart](https://www.tradingview.com/chart/?symbol=NU) | Nu Holdings Ltd. | NU |
-| 23 | 88 | $48.05 | [Chart](https://www.tradingview.com/chart/?symbol=FR) | First Industrial Realty Trust, Inc. | FR |
-| 15 | 87 | $48.17 | [Chart](https://www.tradingview.com/chart/?symbol=BIRK) | Birkenstock Holding plc | BIRK |
-| 18 | 87 | $11.98 | [Chart](https://www.tradingview.com/chart/?symbol=PMT) | PennyMac Mortgage Investment Trust | PMT |
-| 16 | 86 | $28.90 | [Chart](https://www.tradingview.com/chart/?symbol=CNX) | CNX Resources Corporation | CNX |
-| 21 | 86 | $12.10 | [Chart](https://www.tradingview.com/chart/?symbol=WSR) | Whitestone REIT | WSR |
-| 22 | 86 | $25.37 | [Chart](https://www.tradingview.com/chart/?symbol=WY) | Weyerhaeuser Company | WY |
-| 18 | 85 | $40.95 | [Chart](https://www.tradingview.com/chart/?symbol=NBTB) | NBT Bancorp Inc | NBTB |
-| 21 | 84 | $55.41 | [Chart](https://www.tradingview.com/chart/?symbol=HRB) | H&R Block, Inc. | HRB |
-| 25 | 84 | $30.74 | [Chart](https://www.tradingview.com/chart/?symbol=MBIN) | Merchants Bancorp Common Stock | MBIN |
-| 28 | 84 | $68.39 | [Chart](https://www.tradingview.com/chart/?symbol=BBY) | Best Buy Company, Inc. | BBY |
-| 23 | 83 | $10.77 | [Chart](https://www.tradingview.com/chart/?symbol=PUBM) | PubMatic, Inc. Class A Common Stock | PUBM |
-| 24 | 83 | $23.69 | [Chart](https://www.tradingview.com/chart/?symbol=FFBC) | First Financial Bancorp | FFBC |
-| 23 | 82 | $60.95 | [Chart](https://www.tradingview.com/chart/?symbol=UL) | Unilever plc | UL |
-| 20 | 81 | $67.40 | [Chart](https://www.tradingview.com/chart/?symbol=PYPL) | PayPal Holdings, Inc. Common Stock | PYPL |
-| 25 | 81 | $45.97 | [Chart](https://www.tradingview.com/chart/?symbol=GLPI) | Gaming and Leisure Properties, Inc. | GLPI |
-| 28 | 81 | $12.28 | [Chart](https://www.tradingview.com/chart/?symbol=RQI) | COHEN & STEERS QUALITY INCOME REALTY FUND, INC. COMMON SHARES | RQI |
-| 24 | 80 | $33.85 | [Chart](https://www.tradingview.com/chart/?symbol=FFIN) | First Financial Bankshares Inc | FFIN |
-| 25 | 80 | $39.18 | [Chart](https://www.tradingview.com/chart/?symbol=CTS) | CTS Corporation | CTS |
-| 25 | 80 | $105.14 | [Chart](https://www.tradingview.com/chart/?symbol=PLD) | PROLOGIS, INC. | PLD |
-| 25 | 79 | $85.39 | [Chart](https://www.tradingview.com/chart/?symbol=BIDU) | Baidu, Inc. | BIDU |
-| 25 | 79 | $18.82 | [Chart](https://www.tradingview.com/chart/?symbol=CVBF) | CVB Financial Corp | CVBF |
-| 32 | 79 | $44.38 | [Chart](https://www.tradingview.com/chart/?symbol=EPI) | WisdomTree India Earnings Fund ETF | EPI |
-| 29 | 78 | $10.21 | [Chart](https://www.tradingview.com/chart/?symbol=NMCO) | Nuveen Municipal Credit Opportunities Fund | NMCO |
-| 30 | 77 | $89.07 | [Chart](https://www.tradingview.com/chart/?symbol=VNQ) | Vanguard Real Estate ETF | VNQ |
-| 33 | 75 | $95.74 | [Chart](https://www.tradingview.com/chart/?symbol=RWR) | SPDR Dow Jones REIT ETF | RWR |
-| 37 | 75 | $41.40 | [Chart](https://www.tradingview.com/chart/?symbol=SRLN) | SPDR Blackstone Senior Loan ETF | SRLN |
-| 27 | 74 | $37.56 | [Chart](https://www.tradingview.com/chart/?symbol=FRME) | First Merchants Corp | FRME |
-| 38 | 74 | $44.94 | [Chart](https://www.tradingview.com/chart/?symbol=SON) | Sonoco Products Company | SON |
-| 35 | 70 | $24.16 | [Chart](https://www.tradingview.com/chart/?symbol=FLBL) | Franklin Senior Loan ETF | FLBL |
-| 38 | 67 | $222.28 | [Chart](https://www.tradingview.com/chart/?symbol=ABG) | Asbury Automotive Group, Inc. | ABG |
-| 38 | 66 | $87.33 | [Chart](https://www.tradingview.com/chart/?symbol=TRU) | TransUnion | TRU |
+| 18 | 90 | $36.47 | [Chart](https://www.tradingview.com/chart/?symbol=VNO) | Vornado Realty Trust | VNO |
+| 17 | 89 | $13.10 | [Chart](https://www.tradingview.com/chart/?symbol=GOOD) | Gladstone Commercial Corporation - REIT | GOOD |
+| 22 | 89 | $47.80 | [Chart](https://www.tradingview.com/chart/?symbol=FR) | First Industrial Realty Trust, Inc. | FR |
+| 14 | 88 | $47.62 | [Chart](https://www.tradingview.com/chart/?symbol=BIRK) | Birkenstock Holding plc | BIRK |
+| 17 | 88 | $11.98 | [Chart](https://www.tradingview.com/chart/?symbol=NU) | Nu Holdings Ltd. | NU |
+| 18 | 87 | $11.94 | [Chart](https://www.tradingview.com/chart/?symbol=PMT) | PennyMac Mortgage Investment Trust | PMT |
+| 15 | 86 | $28.78 | [Chart](https://www.tradingview.com/chart/?symbol=CNX) | CNX Resources Corporation | CNX |
+| 20 | 85 | $10.58 | [Chart](https://www.tradingview.com/chart/?symbol=PUBM) | PubMatic, Inc. Class A Common Stock | PUBM |
+| 22 | 85 | $12.10 | [Chart](https://www.tradingview.com/chart/?symbol=WSR) | Whitestone REIT | WSR |
+| 22 | 85 | $25.23 | [Chart](https://www.tradingview.com/chart/?symbol=WY) | Weyerhaeuser Company | WY |
+| 19 | 84 | $40.95 | [Chart](https://www.tradingview.com/chart/?symbol=NBTB) | NBT Bancorp Inc | NBTB |
+| 20 | 84 | $55.00 | [Chart](https://www.tradingview.com/chart/?symbol=HRB) | H&R Block, Inc. | HRB |
+| 26 | 83 | $30.74 | [Chart](https://www.tradingview.com/chart/?symbol=MBIN) | Merchants Bancorp Common Stock | MBIN |
+| 29 | 83 | $68.47 | [Chart](https://www.tradingview.com/chart/?symbol=BBY) | Best Buy Company, Inc. | BBY |
+| 24 | 82 | $45.76 | [Chart](https://www.tradingview.com/chart/?symbol=GLPI) | Gaming and Leisure Properties, Inc. | GLPI |
+| 25 | 82 | $23.69 | [Chart](https://www.tradingview.com/chart/?symbol=FFBC) | First Financial Bancorp | FFBC |
+| 20 | 81 | $67.10 | [Chart](https://www.tradingview.com/chart/?symbol=PYPL) | PayPal Holdings, Inc. Common Stock | PYPL |
+| 23 | 81 | $27.25 | [Chart](https://www.tradingview.com/chart/?symbol=IVT) | InvenTrust Properties Corp. | IVT |
+| 24 | 81 | $60.87 | [Chart](https://www.tradingview.com/chart/?symbol=UL) | Unilever plc | UL |
+| 24 | 81 | $104.38 | [Chart](https://www.tradingview.com/chart/?symbol=PLD) | PROLOGIS, INC. | PLD |
+| 28 | 81 | $12.26 | [Chart](https://www.tradingview.com/chart/?symbol=RQI) | COHEN & STEERS QUALITY INCOME REALTY FUND, INC. COMMON SHARES | RQI |
+| 24 | 80 | $33.83 | [Chart](https://www.tradingview.com/chart/?symbol=FFIN) | First Financial Bankshares Inc | FFIN |
+| 26 | 79 | $39.18 | [Chart](https://www.tradingview.com/chart/?symbol=CTS) | CTS Corporation | CTS |
+| 31 | 79 | $44.29 | [Chart](https://www.tradingview.com/chart/?symbol=EPI) | WisdomTree India Earnings Fund ETF | EPI |
+| 37 | 79 | $47.86 | [Chart](https://www.tradingview.com/chart/?symbol=SPHD) | Invesco S&P 500 High Dividend Low Volatility ETF | SPHD |
+| 25 | 78 | $18.75 | [Chart](https://www.tradingview.com/chart/?symbol=CVBF) | CVB Financial Corp | CVBF |
+| 25 | 78 | $84.96 | [Chart](https://www.tradingview.com/chart/?symbol=BIDU) | Baidu, Inc. | BIDU |
+| 29 | 78 | $88.68 | [Chart](https://www.tradingview.com/chart/?symbol=VNQ) | Vanguard Real Estate ETF | VNQ |
+| 30 | 77 | $10.21 | [Chart](https://www.tradingview.com/chart/?symbol=NMCO) | Nuveen Municipal Credit Opportunities Fund | NMCO |
+| 31 | 76 | $97.37 | [Chart](https://www.tradingview.com/chart/?symbol=UFPI) | UFP Industries, Inc. Common Stock | UFPI |
+| 35 | 76 | $44.64 | [Chart](https://www.tradingview.com/chart/?symbol=SON) | Sonoco Products Company | SON |
+| 34 | 74 | $95.74 | [Chart](https://www.tradingview.com/chart/?symbol=RWR) | SPDR Dow Jones REIT ETF | RWR |
+| 28 | 73 | $37.56 | [Chart](https://www.tradingview.com/chart/?symbol=FRME) | First Merchants Corp | FRME |
+| 38 | 73 | $41.38 | [Chart](https://www.tradingview.com/chart/?symbol=SRLN) | SPDR Blackstone Senior Loan ETF | SRLN |
+| 34 | 70 | $86.57 | [Chart](https://www.tradingview.com/chart/?symbol=TRU) | TransUnion | TRU |
+| 36 | 70 | $13.12 | [Chart](https://www.tradingview.com/chart/?symbol=RA) | Brookfield Real Assets Income Fund Inc. | RA |
+| 35 | 69 | $15.87 | [Chart](https://www.tradingview.com/chart/?symbol=MARA) | MARA Holdings, Inc. Common Stock | MARA |
+| 36 | 69 | $24.16 | [Chart](https://www.tradingview.com/chart/?symbol=FLBL) | Franklin Senior Loan ETF | FLBL |
+| 39 | 69 | $42.85 | [Chart](https://www.tradingview.com/chart/?symbol=SPYD) | SPDR Portfolio S&P 500 High Dividend ETF | SPYD |
+| 39 | 66 | $222.28 | [Chart](https://www.tradingview.com/chart/?symbol=ABG) | Asbury Automotive Group, Inc. | ABG |
 
 ## **Methodology**
 
